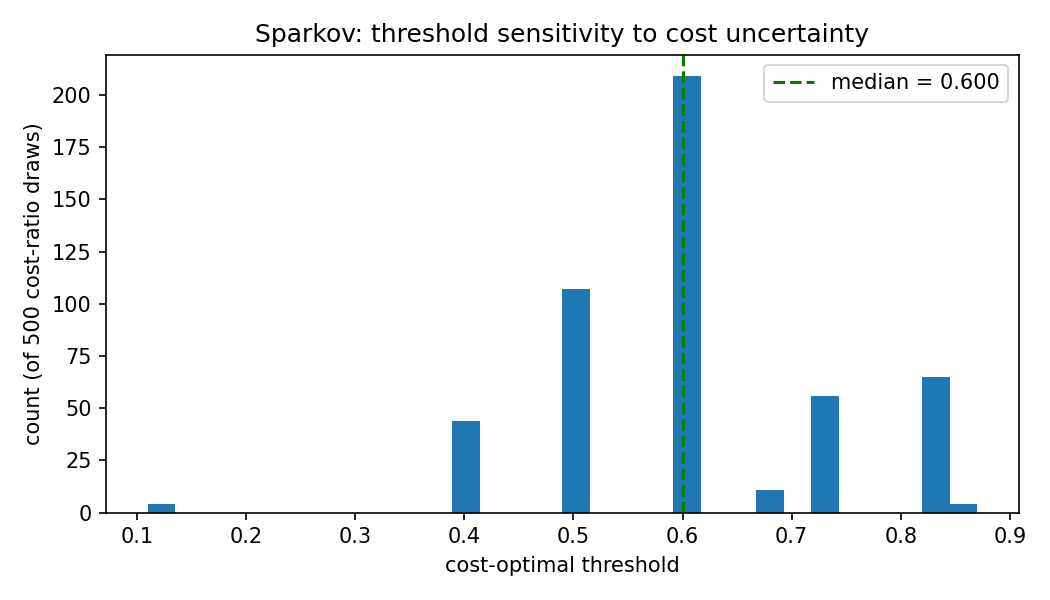
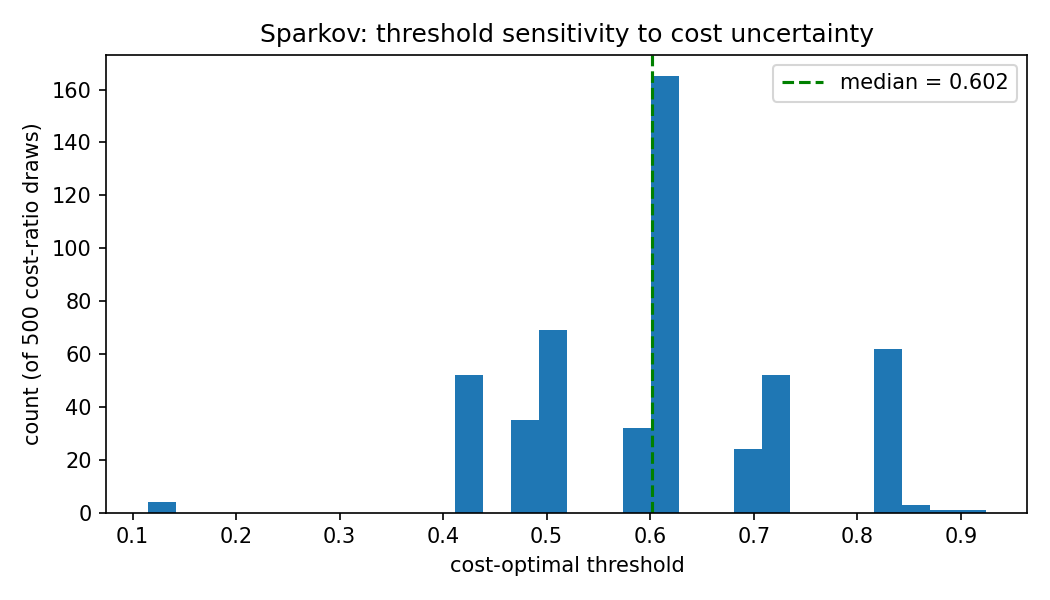
Report cost-uncertainty exact-search result

diff --git a/RESEARCH_REPORT.md b/RESEARCH_REPORT.md
@@ -153,19 +153,30 @@ times; for each draw, the cost-optimal threshold is selected on val.
 
 ![Cost uncertainty threshold distribution](reports/figures/cost_uncertainty_threshold_distribution.png)
 
-| Statistic | Value |
-|---|---|
-| Mean | 0.151 |
-| Std. dev. | 0.178 |
-| Median | 0.090 |
-| IQR | [0.090, 0.240] |
-| Range | [0.010, 0.750] |
+Now exact search (Days 1–3 of the propagation described in Future work), not the 101-point grid:
+
+| Statistic | Value (exact search) | Value (grid, for comparison) |
+|---|---|---|
+| Mean | 0.141 | 0.151 |
+| Std. dev. | 0.187 | 0.178 |
+| Median | 0.092 | 0.090 |
+| IQR | [0.020, 0.092] | [0.090, 0.240] |
+| Range | [0.008, 0.773] | [0.010, 0.750] |
 
 The distribution is multi-modal — thresholds cluster at a handful of plateaus rather than
 varying smoothly, itself a consequence of how few fraud examples (59) are in the validation
-split. The median (0.090) matches the point-estimate result from the $500/$5 scenario, which is
-reassuring, but the spread (0.01 to 0.75) means a materially different but still plausible cost
-assumption would have picked a very different operating point.
+split. Mean, median, and range barely moved between the grid and exact search, but the IQR
+shifted meaningfully lower and tightened (both bounds roughly halved) — the *typical* draw now
+picks a noticeably more aggressive threshold than the grid found, even though the extremes of the
+distribution are about the same. **The median (0.092) no longer matches the exact-search
+point-estimate result from the $500/$5 scenario (0.020, §1b)** — under the grid, both calculations
+agreed (0.090 for both), which this report previously read as "reassuring." That agreement turns
+out to have been coincidental: the $500/$5 scenario is one specific point (cost ratio 100) inside
+a distribution spanning roughly ratio 5 to ratio 1000, and there's no reason its point estimate
+should equal the whole distribution's median — the grid just happened to produce the same value
+for both by chance. The wider lesson: the spread itself (0.008 to 0.773) still means a materially
+different but still plausible cost assumption would pick a very different operating point, and if
+anything that conclusion is reinforced, not weakened, by exact search.
 
 ### 4. Does training-time cost-sensitivity add anything over threshold tuning?
 
@@ -381,19 +392,25 @@ time ([`src/models/run_sparkov_cost_uncertainty_analysis.py`](src/models/run_spa
 
 ![Sparkov cost uncertainty threshold distribution](reports/figures/sparkov_cost_uncertainty_threshold_distribution.png)
 
-| Statistic | Primary dataset | Sparkov |
+| Statistic | Primary dataset (exact search) | Sparkov (exact search) |
 |---|---|---|
-| Mean | 0.151 | 0.606 |
-| Median | 0.090 | 0.600 |
-| Range | [0.010, 0.750] | [0.110, 0.870] |
+| Mean | 0.141 | 0.606 |
+| Median | 0.092 | 0.602 |
+| Range | [0.008, 0.773] | [0.115, 0.924] |
 
 **The character of the sensitivity is genuinely different, not just the numbers.** On the
 primary dataset the threshold swings toward the aggressive end (near 0) as costs vary — a weak
 model needs a low bar to catch fraud at all. On Sparkov it stays anchored in the 0.5–0.7 range
 across nearly every draw — consistent with Experiments 5a–5c: a near-perfect model (PR-AUC
 0.969) has much less to gain from moving the threshold around, regardless of the assumed cost
-ratio. All five Sparkov robustness checks now point the same direction: the stronger the raw
-signal, the less any of this cost-sensitive machinery has left to contribute.
+ratio. **Sparkov's numbers are essentially unchanged from the old grid-based run (mean 0.606→0.606,
+median 0.600→0.602)**, while the primary dataset's did shift (§3) — a third, independent piece of
+evidence for the same explanation: a near-perfect model has so little room left for the decision
+threshold to matter that whether the search that picks it is coarse or exact barely registers,
+while a weaker model (the primary dataset) is sensitive to both the cost assumption *and* the
+precision of the search itself. All five Sparkov robustness checks now point the same direction:
+the stronger the raw signal, the less any of this cost-sensitive machinery has left to
+contribute — methodology included.
 
 #### 5e. Row-level vs. card-level bootstrap: does clustering change the Sparkov intervals?
 
@@ -632,7 +649,7 @@ noisier region of the cost curve, so bootstrap resampling swings the outcome mor
 estimate and a wider confidence interval are not in tension — both are real properties of the
 same threshold. Combined with the walk-forward result (1 improved, 3 worsened, of 4 folds —
 now also exact-search, and *worse* than the grid-based 1/4 improved, 1/4 tied, 2/4 worsened) and
-the cost-uncertainty spread (still grid-based), the honest summary is unchanged and if anything
+the cost-uncertainty spread (now also exact-search, §3), the honest summary is unchanged and if anything
 reinforced: **on this dataset, cost-sensitive
 threshold optimization has a positive expected effect but is not a reliably-winning
 intervention** — its benefit is real on average but small relative to the noise in a
@@ -663,12 +680,16 @@ intervention** — its benefit is real on average but small relative to the nois
 - **In progress:** propagate exact threshold search (§1b) past the headline comparison to every
   number that currently uses the 101-point grid, so the whole report shares one consistent,
   un-discretized basis instead of a mix. Status: the production model, its bootstrap CI
-  (Statistical analysis, above), and walk-forward evaluation (Experiment 2) have switched to
-  exact search — walk-forward's result changed materially as a result (see Experiment 2: exact
-  search *worsened* cross-fold stability, the opposite of the bootstrap's improvement, a genuine
-  and unresolved tension worth noting explicitly rather than averaging away). The cost-ratio
-  sensitivity sweep, calibration analysis, the ablation study, and the training-objective
-  comparison are still grid-based and queued next.
+  (Statistical analysis, above), walk-forward evaluation (Experiment 2), and the cost-ratio
+  *uncertainty* sweep (Experiment 3 and §5d, the 500-draw Monte Carlo one) have switched to exact
+  search. Walk-forward's result changed materially (exact search *worsened* cross-fold stability,
+  the opposite of the bootstrap's improvement — a genuine, unresolved tension); the cost-ratio
+  uncertainty sweep's central tendency barely moved but its IQR tightened and shifted lower, and
+  it broke an apparent agreement with the §1b point estimate that turns out to have been
+  coincidental (§3). The *fixed*-ratio cost sensitivity sweep (`run_cost_analysis.py`'s
+  `cost_ratio_sensitivity_sweep`, a different function from the uncertainty sweep above),
+  calibration analysis, the ablation study, and the training-objective comparison are still
+  grid-based and queued next.
 - Diagnose the LightGBM anomaly from §7 (PR-AUC ≈0.02-0.05 on this dataset vs. 0.82 for
   XGBoost under identical no-weighting conditions, not reproduced on synthetic data at a
   matched imbalance ratio) rather than leaving it excluded.

diff --git a/README.md b/README.md
@@ -177,10 +177,11 @@ than double. The grid was a discretization choice, not a limit of the method; se
 [`RESEARCH_REPORT.md §1b`](RESEARCH_REPORT.md#1b-is-the-grid-itself-limiting-the-result) for the
 full comparison.
 
-**Migration in progress:** the production model, its bootstrap CI, and walk-forward evaluation
-(below) now use exact threshold search as of days 1–2 of an ongoing propagation; the cost-ratio
-uncertainty sweep below still selects thresholds from the 101-point grid pending a later day of
-that same migration, so its threshold values aren't yet on a common basis with the other two —
+**Migration in progress:** the production model, its bootstrap CI, walk-forward evaluation, and
+the cost-ratio uncertainty sweep (below) now use exact threshold search as of days 1–3 of an
+ongoing propagation; the *fixed*-ratio cost sensitivity sweep above (a different, separate sweep
+from the uncertainty one below), calibration analysis, the ablation study, and the
+training-objective comparison are still grid-based, pending later days of the same migration —
 flagged here rather than left implicit. See [`RESEARCH_REPORT.md` Future work](RESEARCH_REPORT.md#future-work).
 
 ### Is any of this robust?
@@ -195,8 +196,12 @@ flagged here rather than left implicit. See [`RESEARCH_REPORT.md` Future work](R
   validation half more tightly, including that fold's noise, and the coarser grid had been
   acting as accidental regularization against exactly that. Threshold swing across windows also
   widened, from [0.04, 0.62] to [0.0063, 0.78].
-- **Cost-ratio uncertainty (500 draws, still grid-based, cost_fn~U(100,1000), cost_fp~U(1,20)):**
-  median threshold 0.09 matches the grid point estimate, but the range is [0.01, 0.75].
+- **Cost-ratio uncertainty (500 draws, now exact-search, cost_fn~U(100,1000), cost_fp~U(1,20)):**
+  median threshold 0.09, range [0.01, 0.77] — mean/median/range barely moved from the old grid
+  result, but the IQR tightened and shifted lower ([0.02, 0.09] vs. the grid's [0.09, 0.24]), and
+  the median no longer matches the exact-search point estimate for the $500/$5 scenario (0.02) —
+  that earlier agreement was a coincidence of the grid, not a real relationship. Full breakdown:
+  [`RESEARCH_REPORT.md §3`](RESEARCH_REPORT.md#3-is-the-selected-threshold-robust-to-uncertainty-in-the-assumed-cost-ratio).
 - **Bootstrap (1,000 resamples, now exact-search):** cost reduction 5.2%, 95% CI
   **[−24.6%, 29.1%]** — crosses zero, and a wider interval than the old grid-based bootstrap
   ([−9.3%, 18.7%]) despite the better point estimate: the exact-search threshold (0.02) is more
